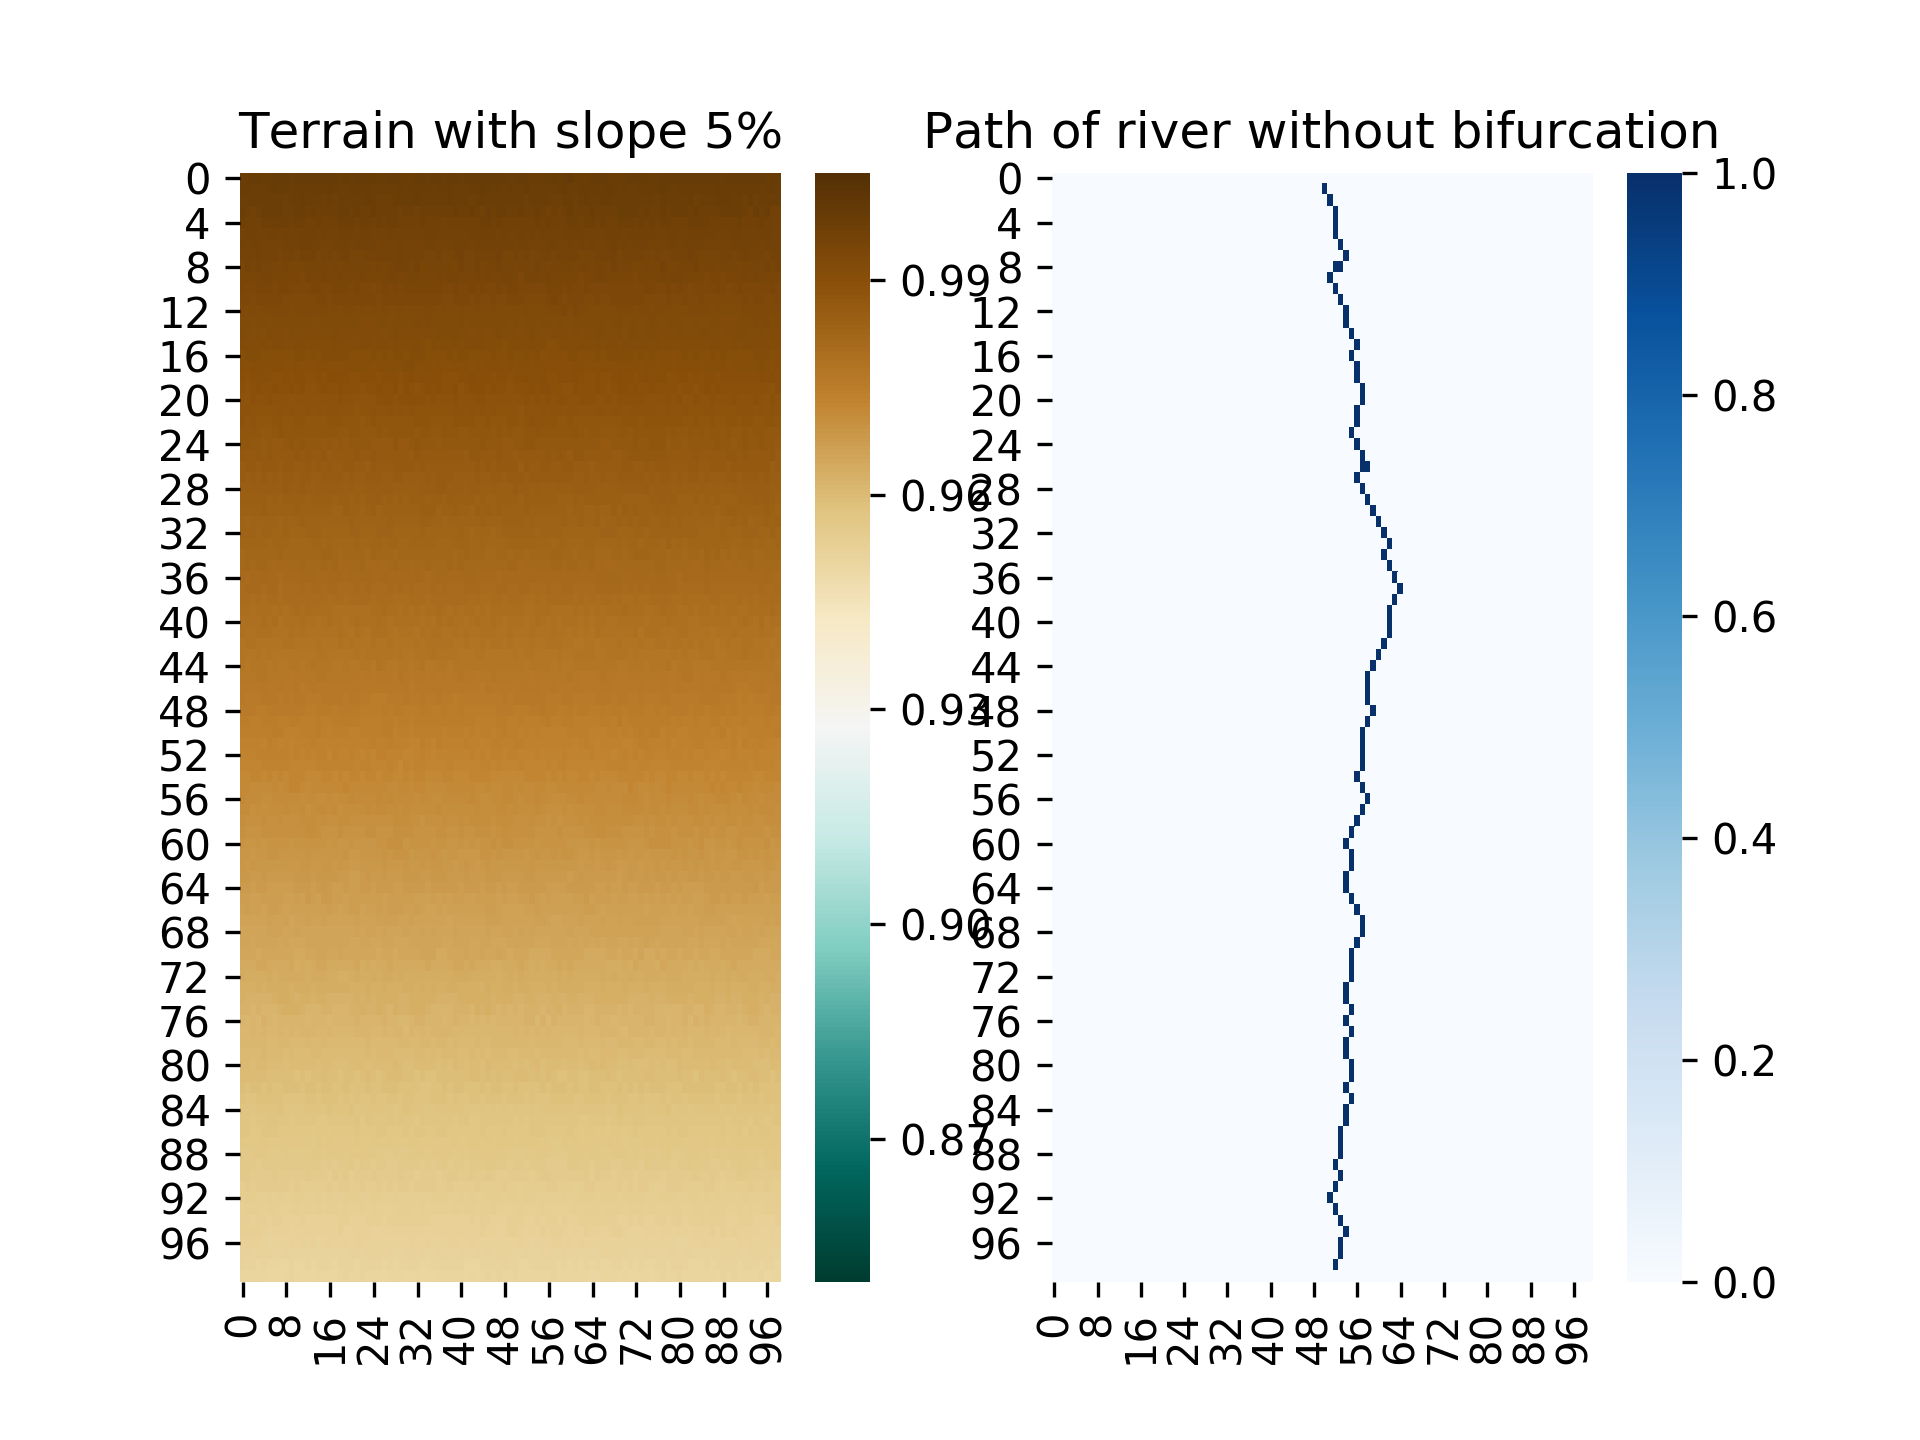
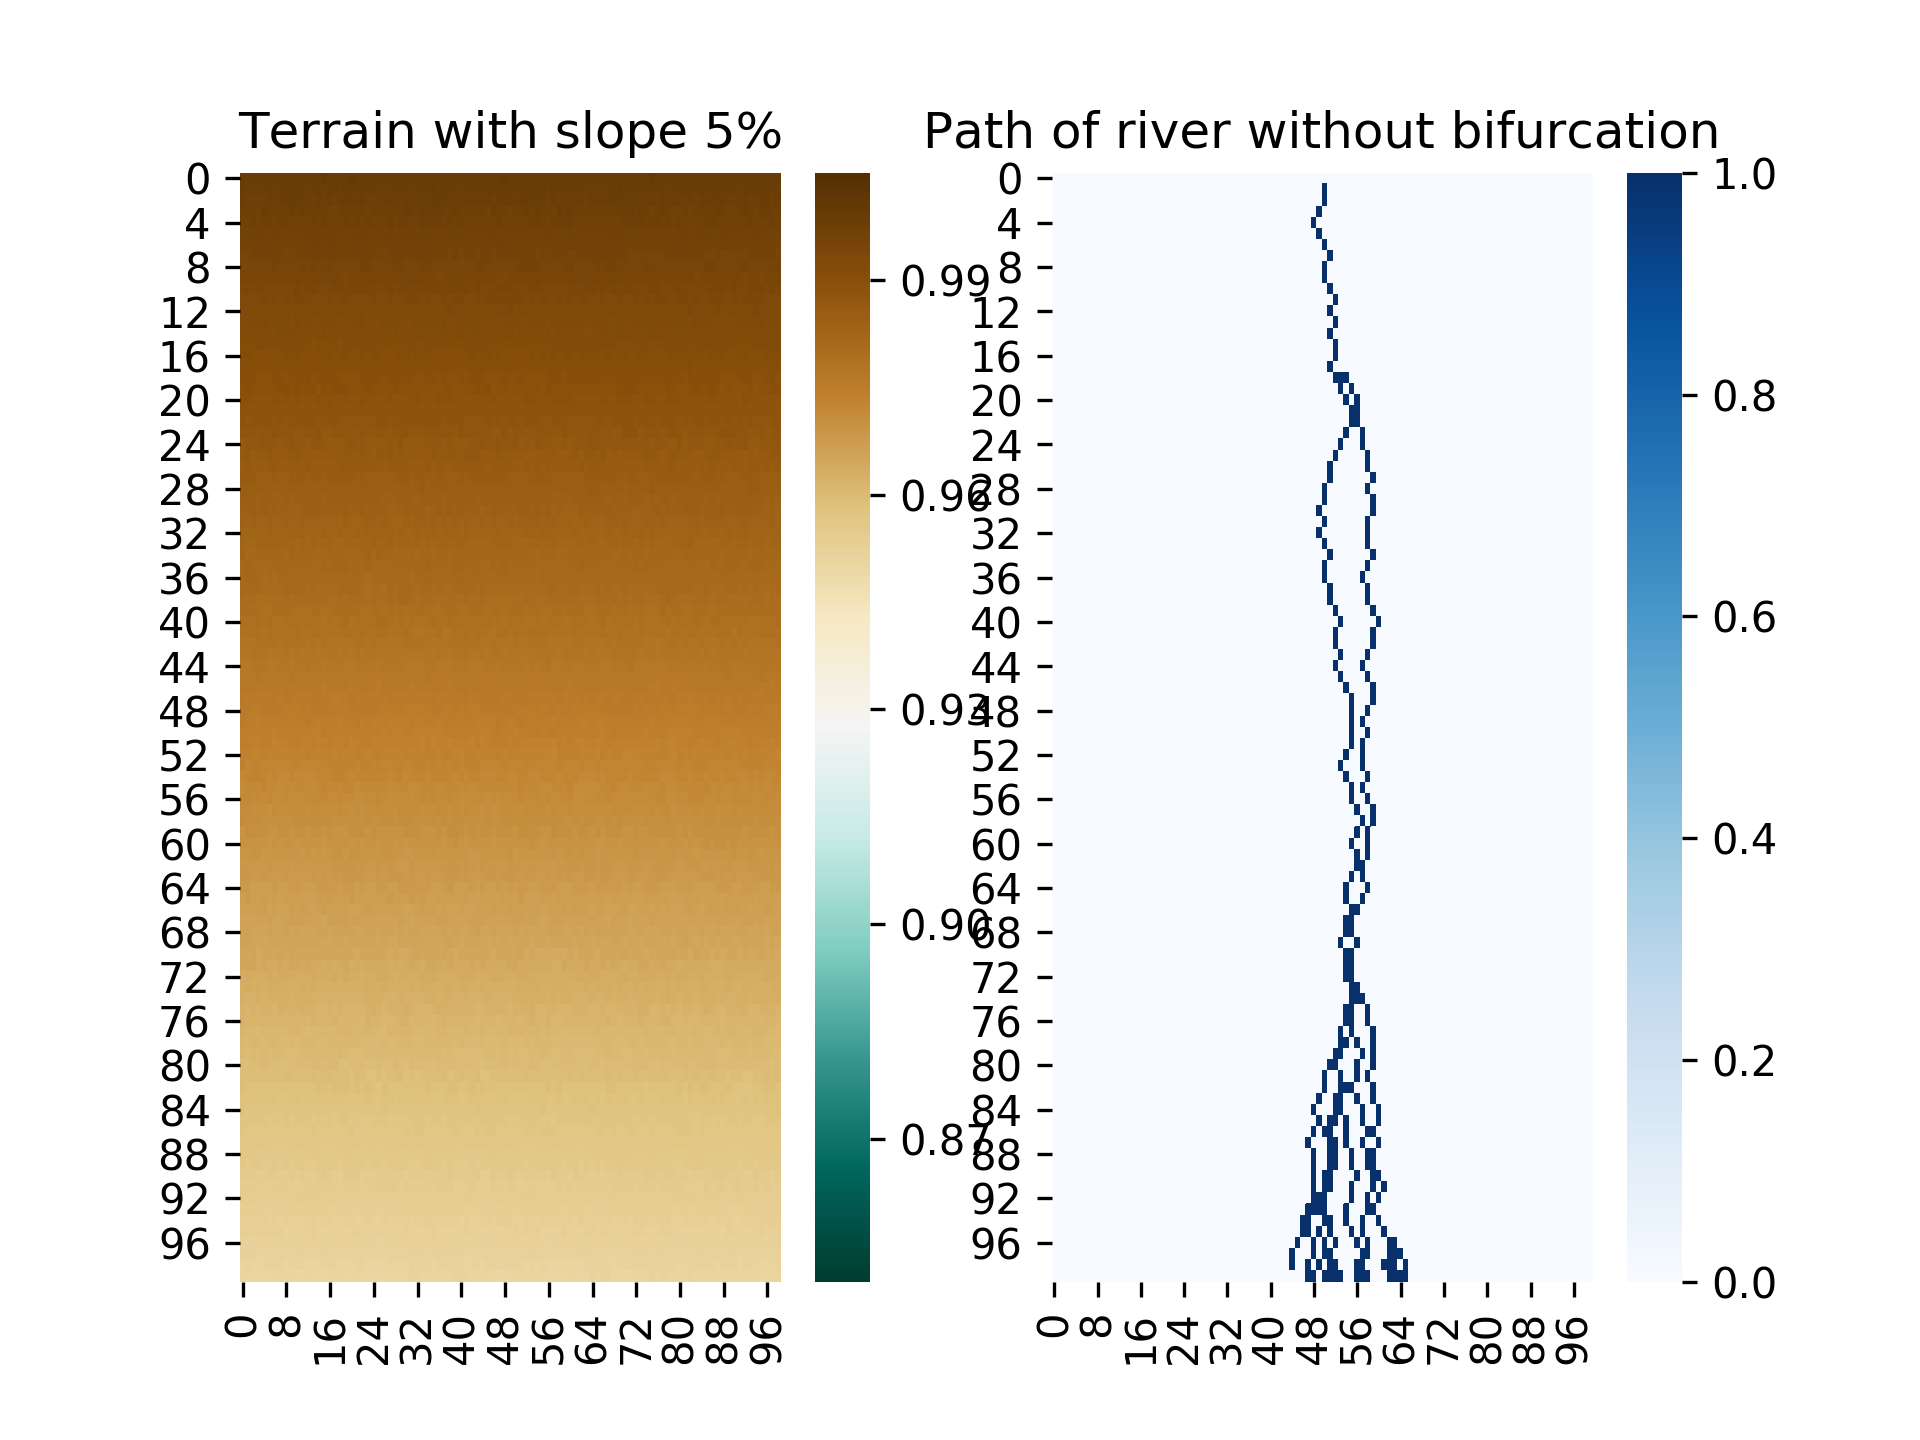
bifurcation almost working

Changed region(s): [[0.6562, 0.1562, 0.75, 0.9062]]

diff --git a/ca_dennis_simple_new.py b/ca_dennis_simple_new.py
@@ -199,40 +199,68 @@ class CA:
 	def get_location_of_lowest_neighbor(self, grid, i, j):
 		neighborhood = self.moore_neighborhood(grid, i, j)
 		neighborhood0, neighborhood1 = [], []
-		print(i,j)
+		# print(i,j)
 		for i, val in enumerate(neighborhood[1]):
-			print('river', neighborhood0, val, self.river_coors)
+			# print('river', neighborhood0, val, self.river_coors)
 			if tuple(val) not in self.river_coors:
 				neighborhood0.append(neighborhood[0][i])
 				neighborhood1.append(val)
+				if neighborhood[0][i] > grid[i,j]:
+					print('dit kan gewoon')
+			else:
+				print(self.river_coors)
+				print(val)
 		# index waar in neighbourhood[0] de laagste waarde zit
 		
-		index_in_neighborhood_list = np.argmin(neighborhood0)
-		location = neighborhood1[index_in_neighborhood_list]
-		print(neighborhood0)
-		print(neighborhood1)
-		print(location)
-		print('+++++++++++++++++++++++++++++++++')
-		return location
+		# index_in_neighborhood_list = np.argmin(neighborhood0)
+		# location = neighborhood1[index_in_neighborhood_list]
+		# print(neighborhood0, neighborhood1)
+		print('check deze', neighborhood0, neighborhood1)
+		value, location = (list(t) for t in zip(*sorted(zip(neighborhood0, neighborhood1))))
+		
+		# print(value, location)
+		# print(neighborhood0)
+		# print(neighborhood1)
+		# print(location)
+		# print('+++++++++++++++++++++++++++++++++')
+		return value, location
 
 	# def get_next_cell_for_path(self, i, j):
 	# 	next_cell_location = self.get_location_of_lowest_neighbor(self.terrain, i, j)[1]
 	# 	return next_cell_location
 
-	def get_path(self, i, j):
-		self.river_coors.add((i, j))
-		self.path[i, j] = 1
+	def get_path(self, coor_list):
+		for coor in coor_list:
+			self.river_coors.add(tuple(coor))
+			self.path[coor[0], coor[1]] = 1
 		return self.path
 
 	def create_path_from_start(self):
-		next_cell = self.get_location_of_lowest_neighbor(self.terrain, 0, self.starting_column)
-		self.path = self.get_path(next_cell[0], next_cell[1])
+		sort_values, sort_location = self.get_location_of_lowest_neighbor(self.terrain, 0, self.starting_column)
+		next_cell = sort_location[0]
+		self.path = self.get_path([next_cell])
+		next_cell = sort_location[0]
 		self.river_coors.add((next_cell[0], next_cell[1]))
-
+		cur_ends = set()
+		cur_ends.add((next_cell[0], next_cell[1]))
+		
 
 		for _ in range(1, self.time_limit):
-			next_cell = self.get_location_of_lowest_neighbor(self.terrain, next_cell[0], next_cell[1])
-			self.path = self.get_path(next_cell[0], next_cell[1])
+			temp_ends = set()
+			for item in cur_ends:
+				old_value = self.terrain[item]
+				sort_values, sort_location = self.get_location_of_lowest_neighbor(self.terrain, item[0], item[1])
+				print(old_value, sort_values[0])
+				next_cell = [tuple(sort_location[0])]
+				temp_ends.add(next_cell[0])
+
+				if old_value < sort_values[0] and len(sort_location) > 1:
+					print(sort_location)
+					next_cell.append(tuple(sort_location[1]))
+					temp_ends.add(next_cell[1])
+				self.path = self.get_path(next_cell)
+			cur_ends = temp_ends.copy()
+
 
 		return self.path
 
@@ -270,7 +298,7 @@ class CA:
 
 
 if __name__ == "__main__":
-	for i in range(1):
+	for i in range(20):
 		ca = CA(size=100, mu=0.0004, gamma=0.0002, rho=0.02, time_limit=100)
 		terrain = ca.initialize_terrain()
 		path = ca.create_path_from_start()
